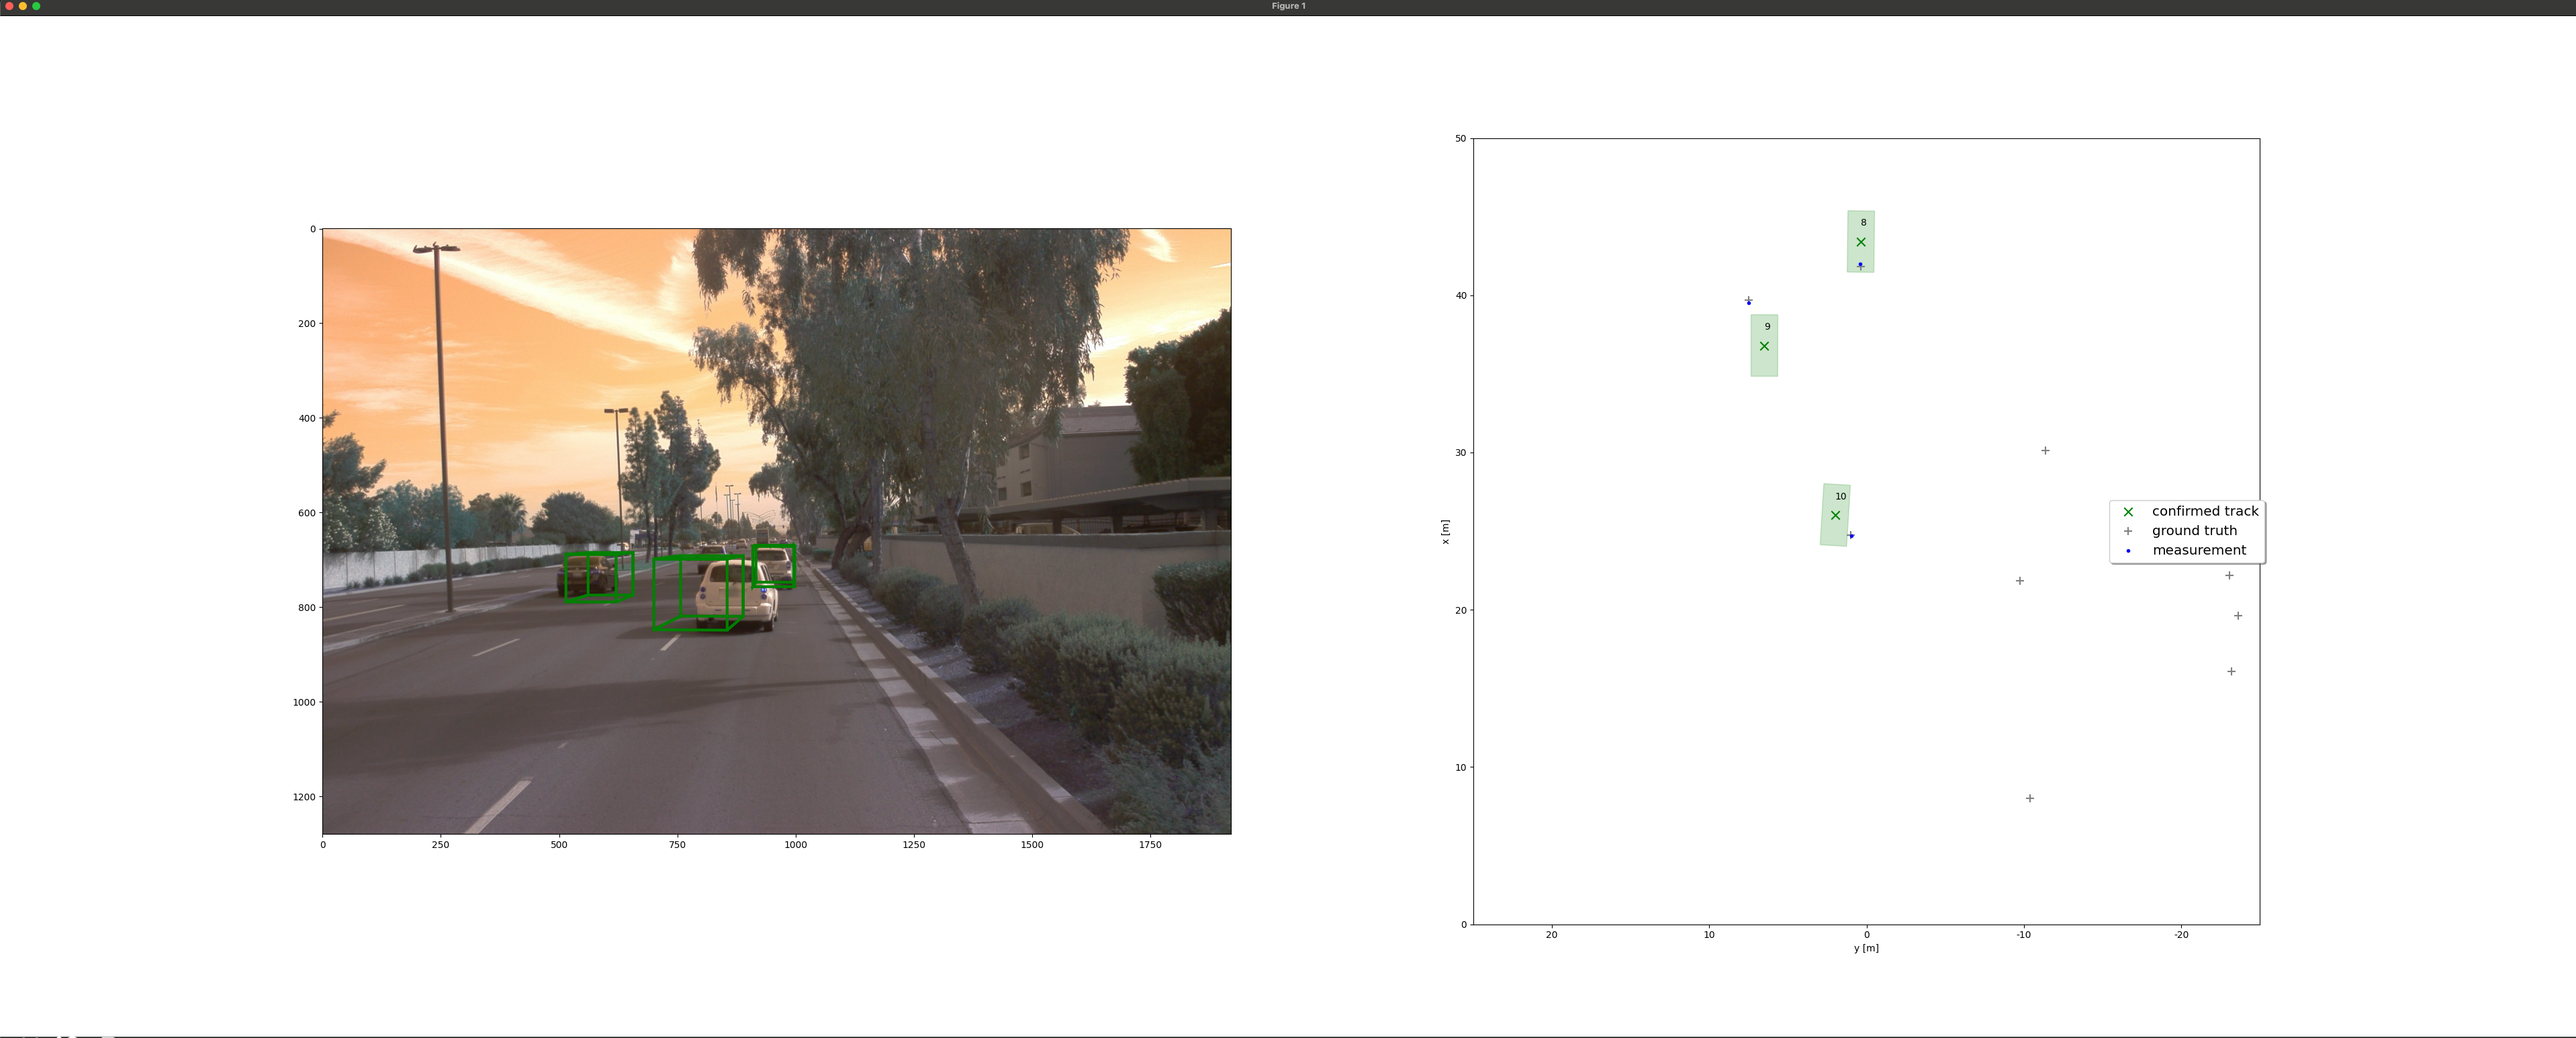
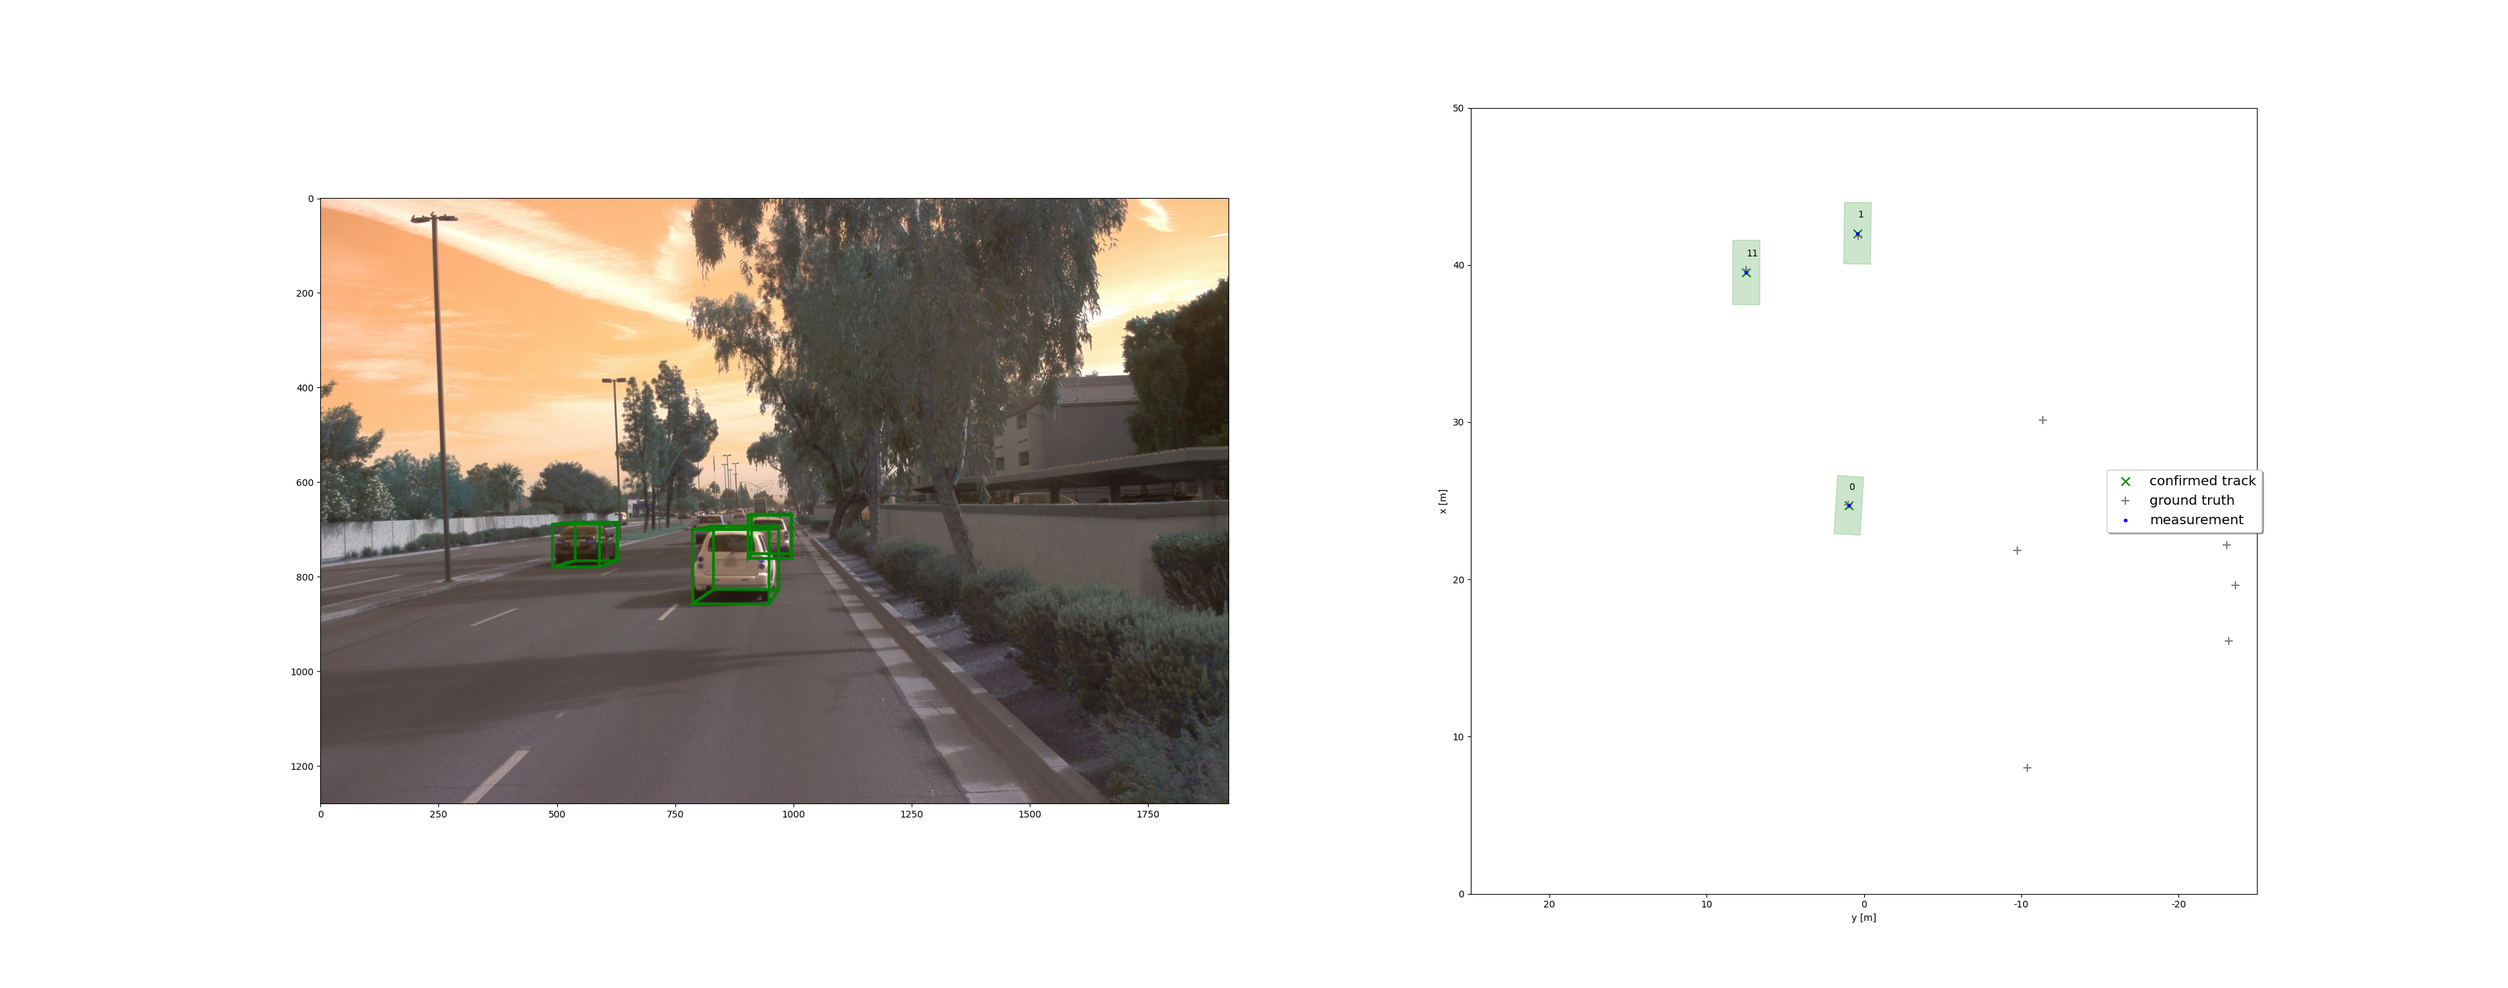
step 3 now working well. next up is camera and step 4

diff --git a/loop_over_dataset.py b/loop_over_dataset.py
@@ -53,7 +53,7 @@ import misc.params as params
 data_filename = 'training_segment-1005081002024129653_5313_150_5333_150_with_camera_labels.tfrecord' # Sequence 1
 # data_filename = 'training_segment-10072231702153043603_5725_000_5745_000_with_camera_labels.tfrecord' # Sequence 2
 # data_filename = 'training_segment-10963653239323173269_1924_000_1944_000_with_camera_labels.tfrecord' # Sequence 3
-show_only_frames = [0, 15] # show only frames in interval for debugging
+show_only_frames = [0, 200] # show only frames in interval for debugging
 
 ## Prepare Waymo Open Dataset file for loading
 data_fullpath = os.path.join(os.path.dirname(os.path.realpath(__file__)), 'dataset', data_filename) # adjustable path in case this script is called from another working directory

diff --git a/submission_full.md b/submission_full.md
@@ -31,3 +31,8 @@ End frame: ![End frame](step3_endframe.png)
 
 
 
+
+
+
+
+
